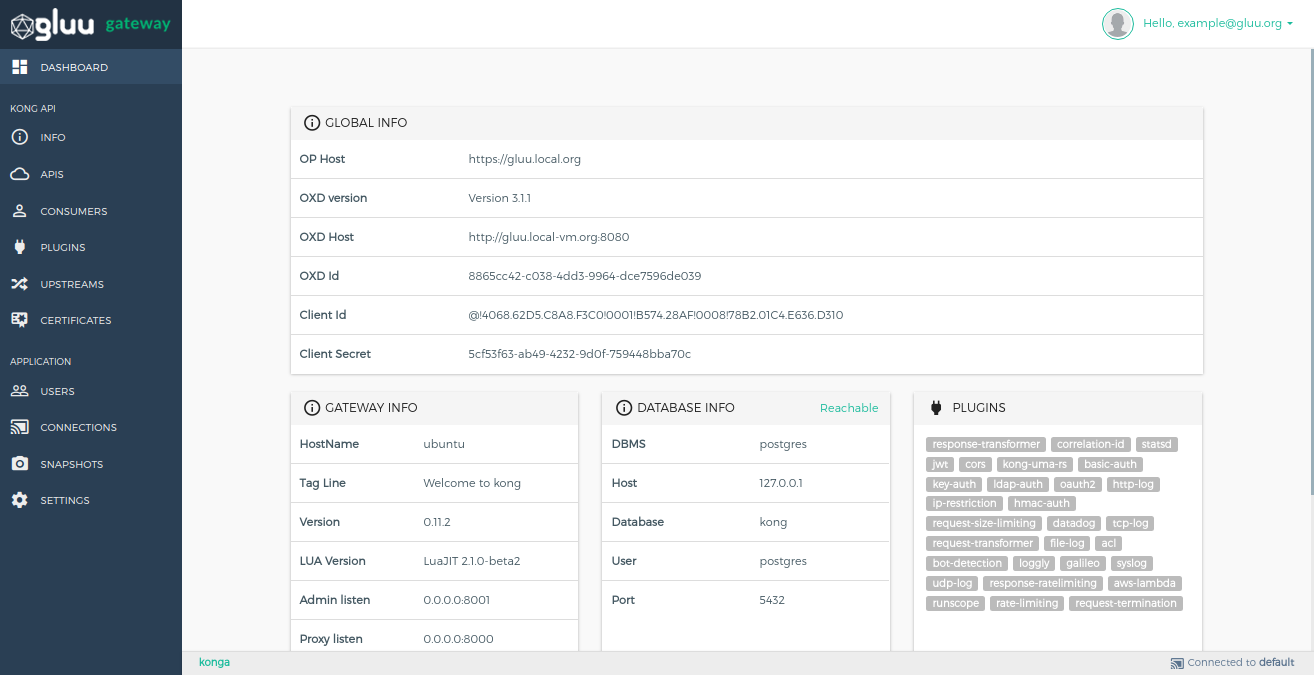
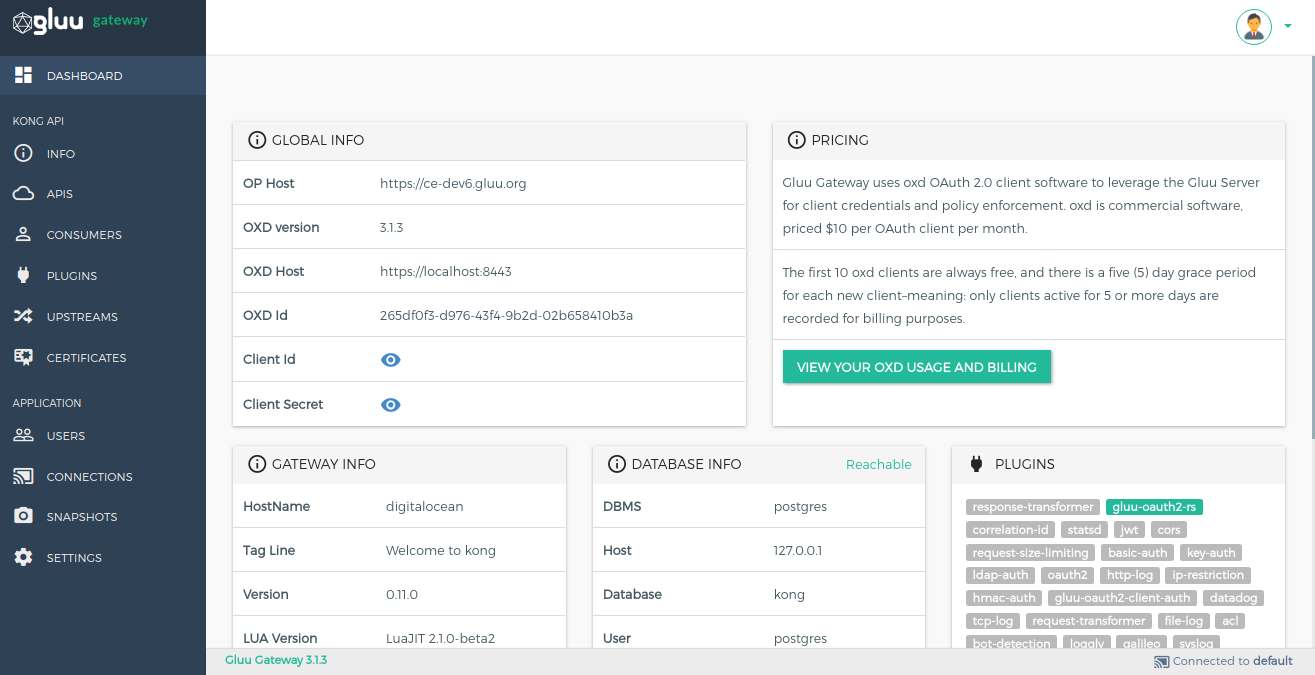
Update images and add setting section details

diff --git a/3.1.3/source/admin-gui.md b/3.1.3/source/admin-gui.md
@@ -123,3 +123,9 @@ Take snapshots of currently active nodes.
 All APIs, Plugins, Consumers, Upstreams and Targets will be saved and available for later import.
 
 ![snapshot](img/9_snapshot.png)
+
+## Settings
+
+You can set dashboard refresh interval and logout session timeout in settings section.
+
+![settings](img/10_settings.png)
